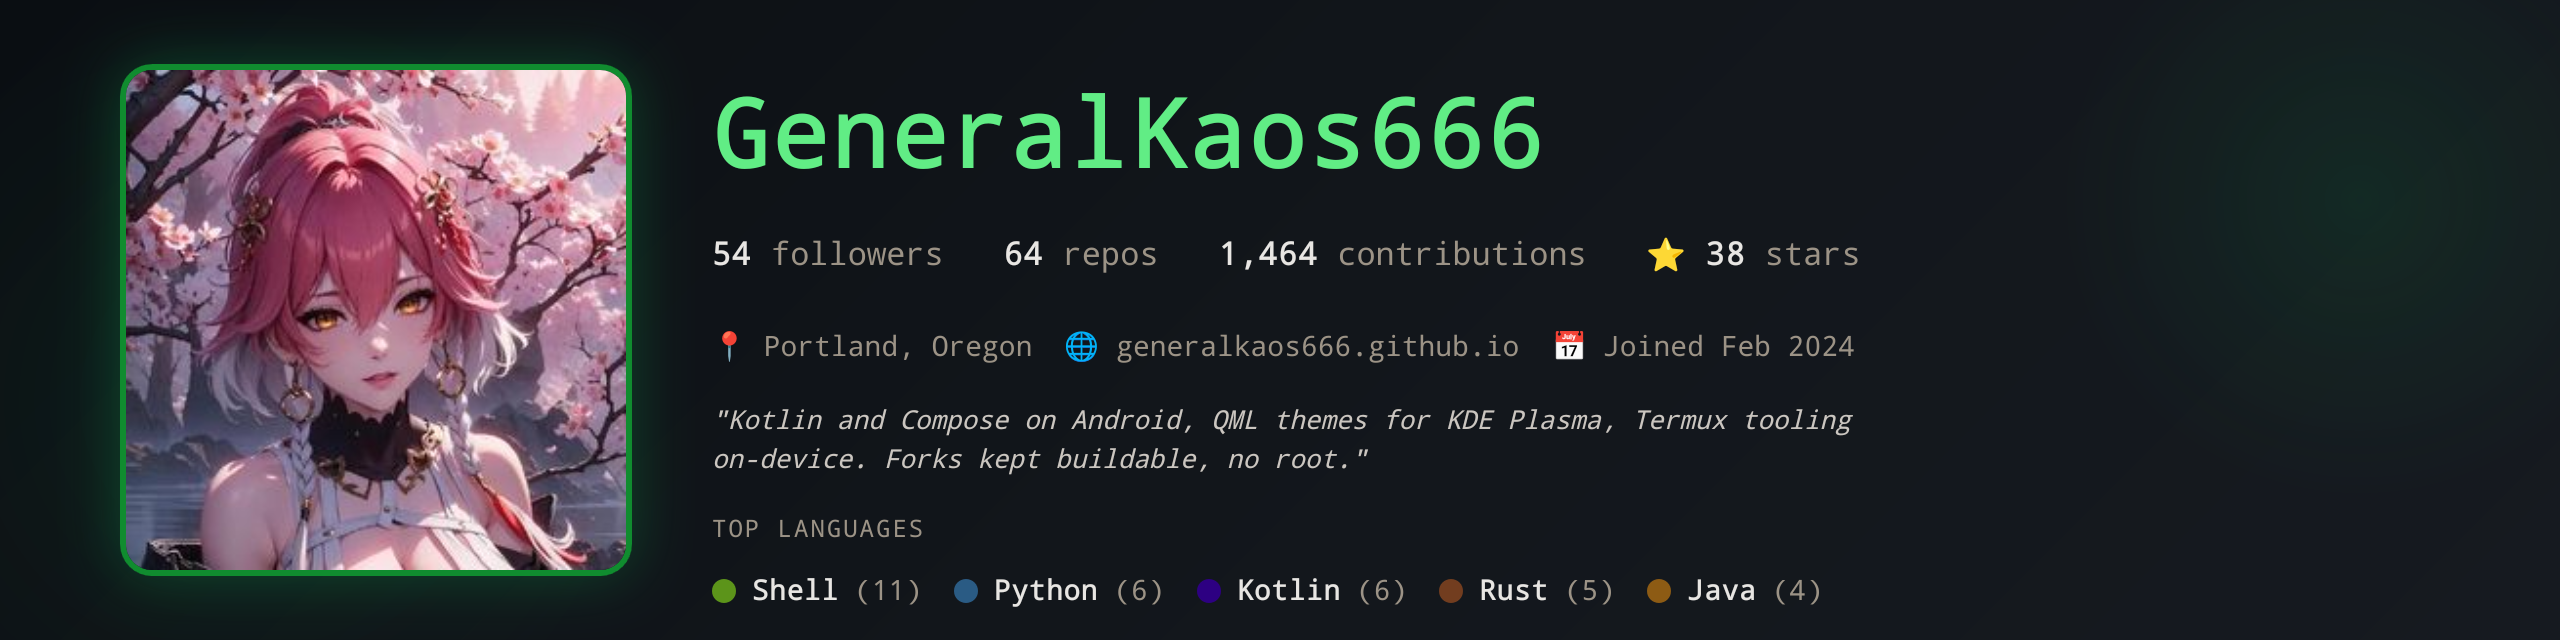
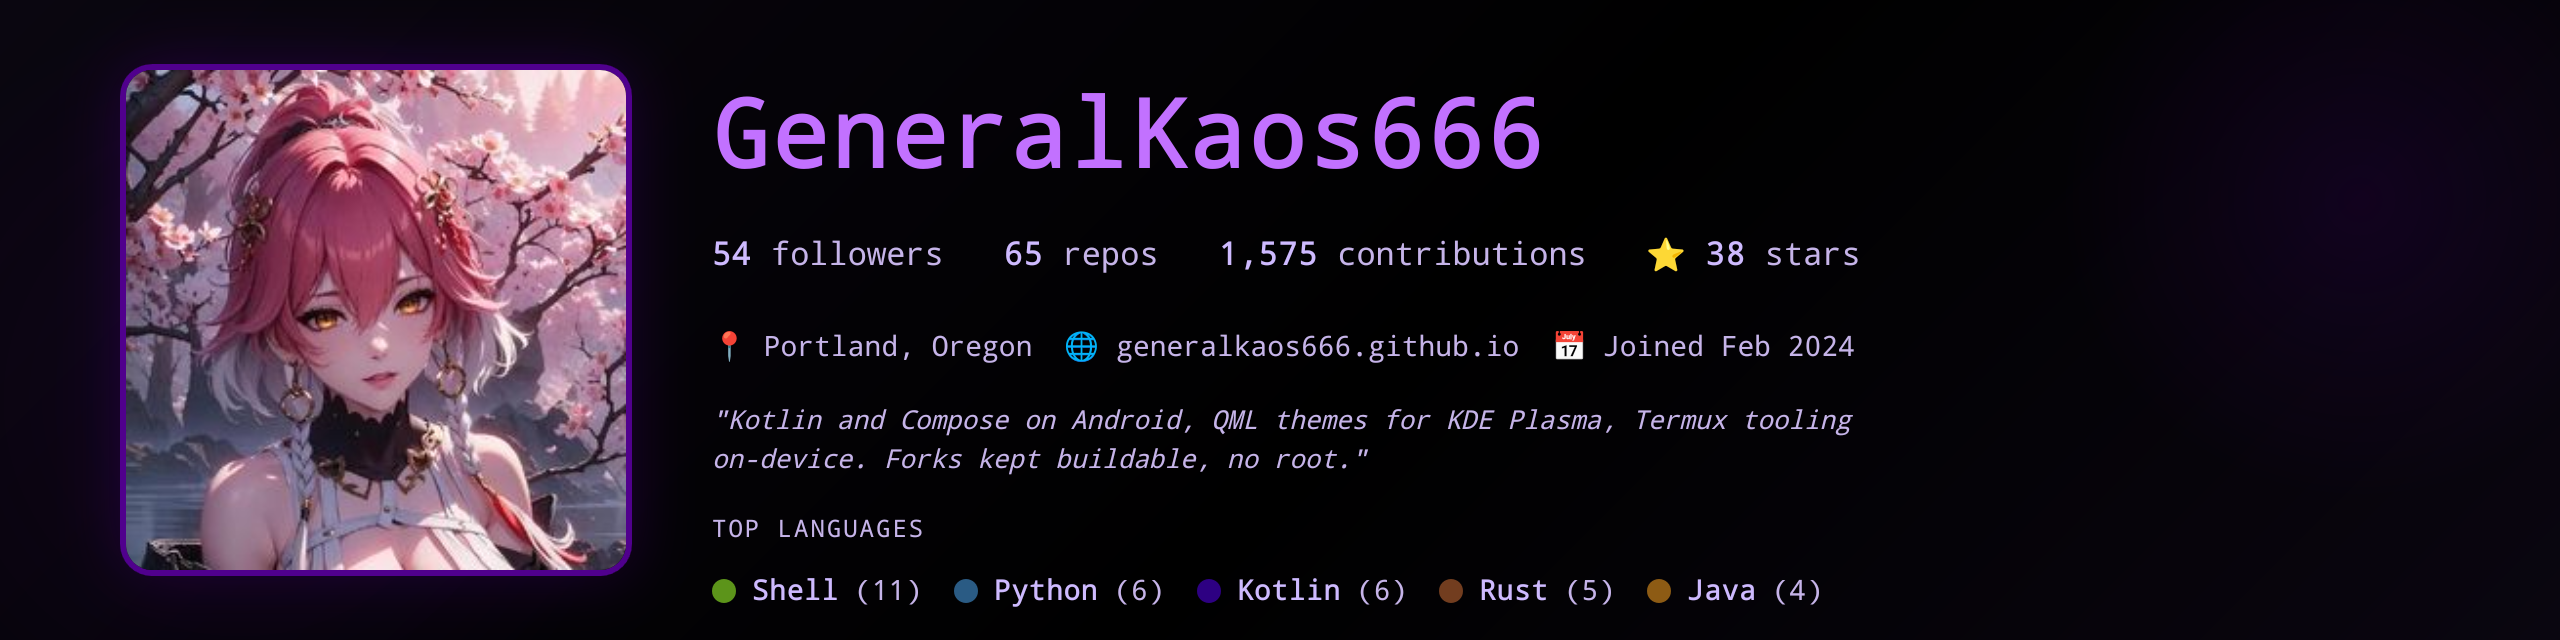
feat(readme): add devemon badge and profile card images
Place devemon badge and tall stat card side by side under the header.
Drop the duplicate Kotlin badge from the Android section.

diff --git a/README.md b/README.md
@@ -15,6 +15,15 @@
   <img src="https://img.shields.io/badge/STATUS-BUILDING-39FF14?style=for-the-badge&logo=statuspage&logoColor=black" alt="Status: building" />
 </p>
 
+<div align="center">
+  <table>
+    <tr>
+      <td valign="middle"><img src="https://raw.githubusercontent.com/GeneralKaos666/GeneralKaos666/main/devemon-badge-GeneralKaos666.png" alt="GeneralKaos666 devemon badge: repos, followers, stars, top languages" width="520" /></td>
+      <td valign="middle"><img src="https://raw.githubusercontent.com/GeneralKaos666/GeneralKaos666/main/devemon-card-GeneralKaos666.png" alt="GeneralKaos666 devemon card: repositories, followers, stars, forks, contributions" width="330" /></td>
+    </tr>
+  </table>
+</div>
+
 > Android apps in Kotlin and Compose. KDE Plasma themes in QML. Built on Termux, no root.
 
 ---
@@ -43,7 +52,6 @@ up since 2024 · 65 public repos
 ### `02 // TECH_STACK`
 
 #### `// ANDROID_MOBILE`
-![Kotlin](https://img.shields.io/badge/Kotlin-BF00FF?style=for-the-badge&logo=kotlin&logoColor=white)
 ![Jetpack Compose](https://img.shields.io/badge/Jetpack%20Compose-00FFFF?style=for-the-badge&logo=jetpackcompose&logoColor=black)
 ![Flutter](https://img.shields.io/badge/Flutter-39FF14?style=for-the-badge&logo=flutter&logoColor=black)
 ![Dart](https://img.shields.io/badge/Dart-00FFFF?style=for-the-badge&logo=dart&logoColor=black)
